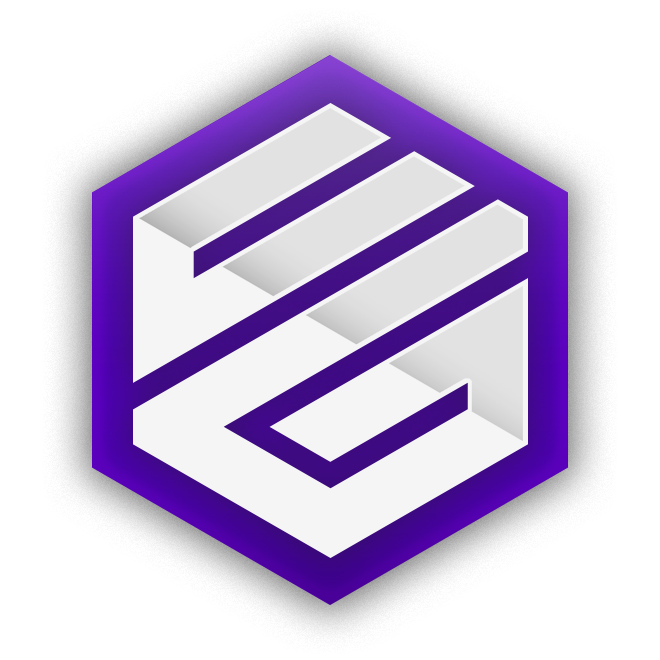
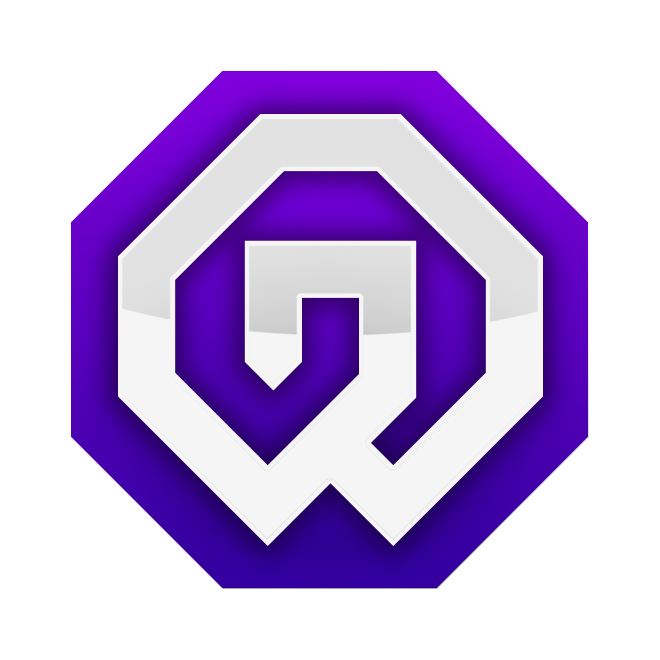
Rebranded

diff --git a/assets/css/style.css b/assets/css/style.css
@@ -440,7 +440,9 @@ body::webkit-scrollbar-thumb:hover {
   transition: background-color 0.2s ease-in-out, transform 0.2s ease-in-out;
   color: var(--light-black-color);
   position: relative;
-  clip-path: polygon(50% 0%, 92.8% 25.7%, 92.8% calc(100% - 25.7%), 50% 100%, 7.2% calc(100% - 25.7%), 7.2% 25.7%);
+  clip-path: polygon(
+    29% 0, 71% 0, 100% 29%, 100% 71%, 71% 100%, 29% 100%, 0 71%, 0 29%
+  );
 }
 
 /* ====================== MOBILE NAVIGATION HOVER ====================== */

diff --git a/index.html b/index.html
@@ -230,7 +230,7 @@
 
           <p class="logo-supporting-text">
             <img src="assets/images/nav-png.png" alt="UniverseGaming Logo" width="100">
-            UNIVERSE <br> GAMING ©
+            GAME <br> WIZARDS ©
           </p>
         </a>
 
